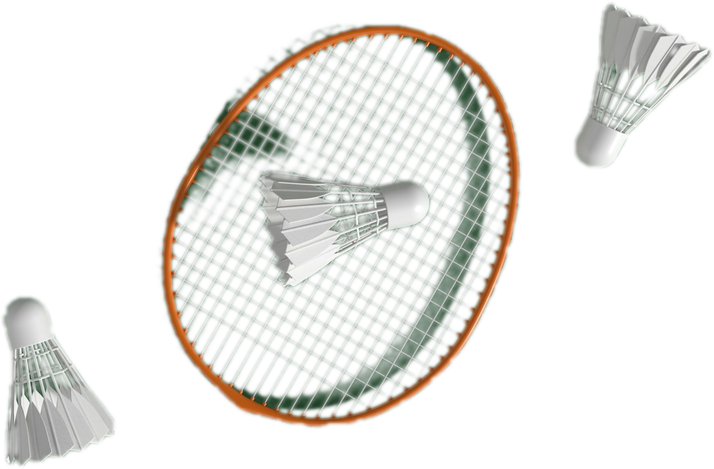
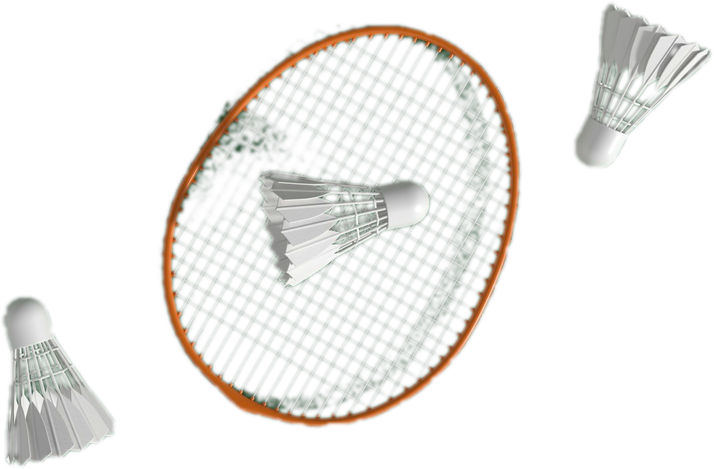
fix(rally): drop same-hue shadows the detail gate waved through
The shadow of a string bed is itself a lattice, so it carries enough local
detail to pass the texture gate — a racket on a pink wall kept a pink
squiggle in the product grid. A shadow holds the backdrop's chromaticity
exactly, so a hue match now overrides the gate. A charcoal racket on blue
sky is neutral where the sky is blue, so it still survives.

diff --git a/rally/tools/make-art.py b/rally/tools/make-art.py
@@ -184,6 +184,23 @@ def clear_string_bed(alpha, px, lo=0.05, hi=0.14):
     ) / 255.0
     shadow *= 1.0 - smoothstep(0.05, 0.22, detail)
 
+    # The detail gate is too generous for one case: the shadow *of a string
+    # bed* is itself a lattice, so it carries plenty of local detail and the
+    # gate waves it through. A racket on a pink wall kept a pink squiggle.
+    #
+    # Hue settles it. A shadow is the backdrop minus light, so it holds the
+    # backdrop's chromaticity exactly; the product almost never does. Compare
+    # chromaticity — colour with brightness divided out — and let a match
+    # override the detail gate. A charcoal racket on blue sky is neutral where
+    # the sky is blue, so it stays.
+    def chroma(v):
+        return v / np.maximum(v.sum(axis=-1, keepdims=True), 1e-3)
+
+    chroma_dist = np.sqrt(((chroma(px) - chroma(backdrop[None, None, :])) ** 2).sum(axis=2))
+    same_hue = 1.0 - smoothstep(0.012, 0.05, chroma_dist)
+    darker = 1.0 - smoothstep(0.94, 1.06, level)
+    shadow = np.maximum(shadow, same_hue * darker)
+
     return alpha * keep * (1.0 - shadow)
 
 
